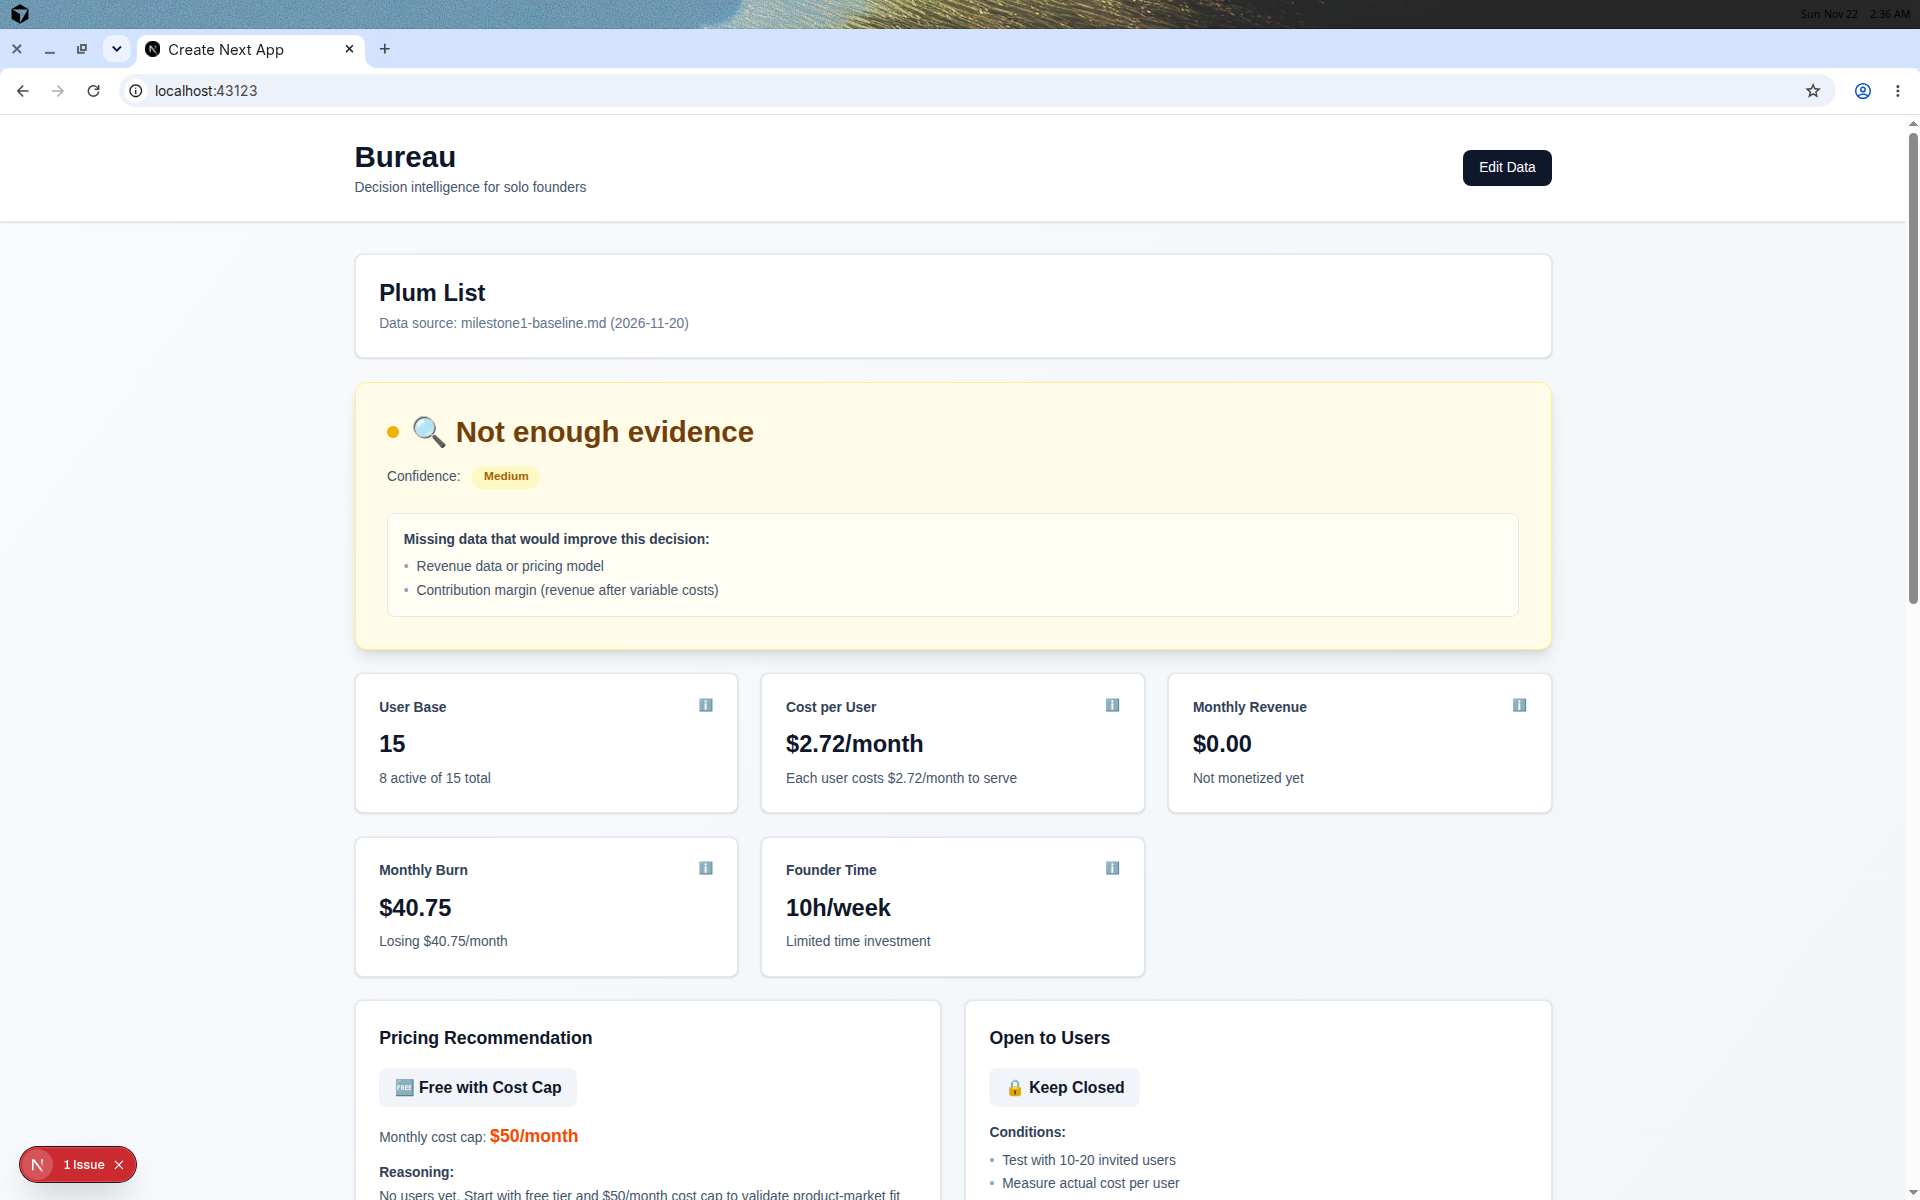
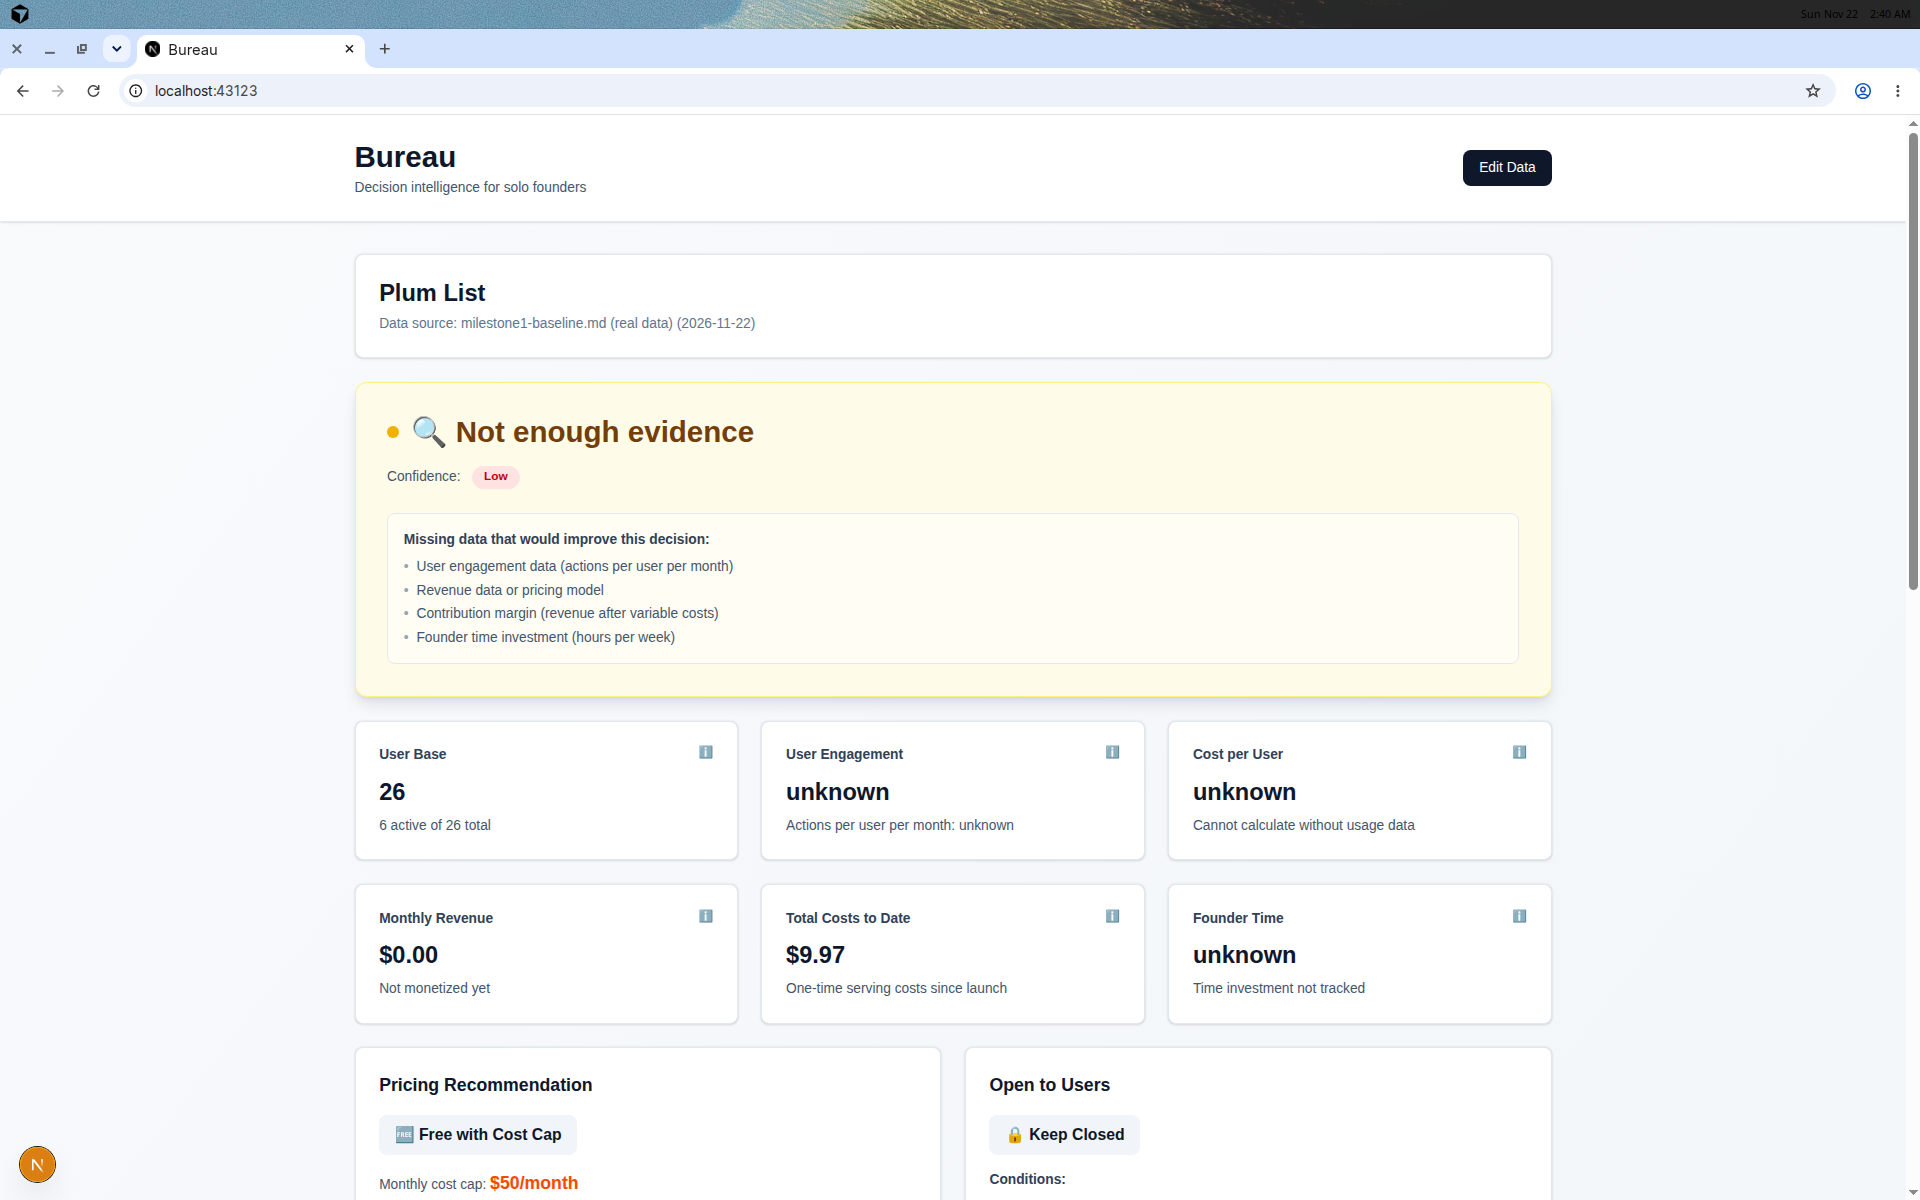
Fix Plum List baseline with real data from milestone1-baseline.md
- 26 auth users (all anonymous), 6 with saves
- 633 total saves, 613 on founder's account
- Est. serving cost ~$10 total since mid-Oct ($8.72 Nov Places + $1.25 Gemini)
- Revenue $0
- Founder time UNKNOWN (marked as unknown, not guessed)
- Distinguish founder vs non-founder metrics
- Mark unknowns as 'unknown' in UI and add to missing data
- Update key facts to show Total Costs to Date with calculation
- Set page title to 'Bureau'
- Add test asserting exact baseline values
- Update screenshots with real data
- All tests pass (37/37)

diff --git a/lib/engine.ts b/lib/engine.ts
@@ -140,19 +140,23 @@ function identifyMissingData(inputs: BusinessInputs): string[] {
   }
   
   if (inputs.userMetrics.actionsPerUserPerMonth === 0) {
-    missing.push('User engagement data (actions per user)');
+    missing.push('User engagement data (actions per user per month)');
   }
   
-  if (!inputs.userMetrics.returnRate && !inputs.userMetrics.churnRate) {
-    missing.push('User retention metrics (return rate or churn rate)');
+  if (!inputs.userMetrics.returnRate && inputs.userMetrics.returnRate !== 0) {
+    missing.push('User retention data (return rate)');
   }
   
   if (inputs.revenue.monthlyRevenue === 0 && !inputs.revenue.revenuePerUser) {
     missing.push('Revenue data or pricing model');
   }
   
-  if (!inputs.revenue.contributionMargin) {
+  if (!inputs.revenue.contributionMargin && inputs.revenue.contributionMargin !== 0) {
     missing.push('Contribution margin (revenue after variable costs)');
+  }
+  
+  if (!inputs.founderTime.hoursPerWeek || inputs.founderTime.hoursPerWeek === 0) {
+    missing.push('Founder time investment (hours per week)');
   }
   
   return missing;
@@ -177,12 +181,24 @@ function extractKeyFacts(
     inputs: ['userMetrics.totalUsers', 'userMetrics.activeUsers'],
   });
   
+  // Actions per user
+  if (inputs.userMetrics.actionsPerUserPerMonth === 0) {
+    facts.push({
+      label: 'User Engagement',
+      value: 'unknown',
+      interpretation: 'Actions per user per month: unknown',
+      inputs: ['userMetrics.actionsPerUserPerMonth'],
+    });
+  }
+  
   // Cost per user
   facts.push({
     label: 'Cost per User',
-    value: `$${breakEven.costPerUser.toFixed(2)}/month`,
+    value: breakEven.costPerUser === 0 
+      ? 'unknown' 
+      : `$${breakEven.costPerUser.toFixed(2)}/month`,
     interpretation: breakEven.costPerUser === 0
-      ? 'No variable costs calculated'
+      ? 'Cannot calculate without usage data'
       : `Each user costs $${breakEven.costPerUser.toFixed(2)}/month to serve`,
     calculation: breakEven.calculation,
     inputs: ['agentTasks', 'servingCosts', 'userMetrics'],
@@ -203,22 +219,34 @@ function extractKeyFacts(
     inputs: ['revenue.monthlyRevenue', 'userMetrics.totalUsers'],
   });
   
-  // Burn rate
-  facts.push({
-    label: 'Monthly Burn',
-    value: `$${breakEven.monthlyBurnRate.toFixed(2)}`,
-    interpretation: breakEven.monthlyBurnRate > 0
-      ? `Losing $${breakEven.monthlyBurnRate.toFixed(2)}/month`
-      : `Profitable by $${Math.abs(breakEven.monthlyBurnRate).toFixed(2)}/month`,
-    calculation: `Revenue ($${monthlyRevenue.toFixed(2)}) - Costs ($${(monthlyRevenue - breakEven.monthlyBurnRate).toFixed(2)})`,
-    inputs: ['revenue', 'agentTasks', 'servingCosts'],
-  });
+  // Total costs to date (sum of all one-time costs)
+  const oneTimeCosts = inputs.agentTasks
+    .filter(task => task.frequency === 'one_time')
+    .reduce((sum, task) => sum + task.costUSD, 0);
+  
+  if (oneTimeCosts > 0 || breakEven.monthlyBurnRate !== 0) {
+    facts.push({
+      label: 'Total Costs to Date',
+      value: `$${oneTimeCosts.toFixed(2)}`,
+      interpretation: oneTimeCosts === 0
+        ? 'No costs recorded'
+        : `One-time serving costs since launch`,
+      calculation: inputs.agentTasks
+        .filter(task => task.frequency === 'one_time')
+        .map(task => `${task.name}: $${task.costUSD}`)
+        .join('\n'),
+      inputs: ['agentTasks'],
+    });
+  }
   
   // Founder time
+  const founderTimeUnknown = !inputs.founderTime.hoursPerWeek || inputs.founderTime.hoursPerWeek === 0;
   facts.push({
     label: 'Founder Time',
-    value: `${inputs.founderTime.hoursPerWeek}h/week`,
-    interpretation: inputs.founderTime.hoursPerWeek > 40
+    value: founderTimeUnknown ? 'unknown' : `${inputs.founderTime.hoursPerWeek}h/week`,
+    interpretation: founderTimeUnknown
+      ? 'Time investment not tracked'
+      : inputs.founderTime.hoursPerWeek > 40
       ? 'More than full-time commitment'
       : inputs.founderTime.hoursPerWeek > 20
       ? 'Significant part-time commitment'

diff --git a/lib/engine.test.ts b/lib/engine.test.ts
@@ -9,13 +9,40 @@ import { businessArchetypes, plumListBaseline } from './seed-data';
 
 describe('Bureau Decision Engine', () => {
   describe('Plum List Baseline', () => {
+    it('should match exact baseline values from milestone1-baseline.md', () => {
+      const inputs = plumListBaseline.inputs;
+      
+      // Exact numbers from milestone1-baseline.md
+      expect(inputs.userMetrics.totalUsers).toBe(26); // All anonymous auth users
+      expect(inputs.userMetrics.activeUsers).toBe(6); // Users with saves
+      expect(inputs.userMetrics.actionsPerUserPerMonth).toBe(0); // UNKNOWN
+      expect(inputs.userMetrics.returnRate).toBe(0); // 0 confirmed returns
+      expect(inputs.revenue.monthlyRevenue).toBe(0); // Not monetized
+      expect(inputs.founderTime.hoursPerWeek).toBe(0); // UNKNOWN
+      
+      // Costs: ~$10 total since mid-Oct ($8.72 Nov Places + ~$1.25 Gemini)
+      const totalCost = inputs.agentTasks.reduce((sum, task) => sum + task.costUSD, 0);
+      expect(totalCost).toBeCloseTo(9.97, 2); // $8.72 + $1.25
+      
+      // Data source
+      expect(inputs.dataSource).toContain('milestone1-baseline.md');
+    });
+
     it('should produce "not_enough_evidence" verdict for Plum List', () => {
       const decision = evaluateBusiness(plumListBaseline.inputs);
       
       expect(decision.verdict).toBe('not_enough_evidence');
-      expect(decision.confidence).toBe('medium');
+      expect(decision.confidence).toBe('low');
       expect(decision.missingData).toBeDefined();
       expect(decision.missingData?.length).toBeGreaterThan(0);
+    });
+
+    it('should list all missing data for Plum List', () => {
+      const decision = evaluateBusiness(plumListBaseline.inputs);
+      
+      expect(decision.missingData).toContain('User engagement data (actions per user per month)');
+      expect(decision.missingData).toContain('Contribution margin (revenue after variable costs)');
+      expect(decision.missingData).toContain('Founder time investment (hours per week)');
     });
 
     it('should recommend free tier with cost cap for Plum List', () => {
@@ -37,8 +64,10 @@ describe('Bureau Decision Engine', () => {
     it('should calculate cost per user for Plum List', () => {
       const decision = evaluateBusiness(plumListBaseline.inputs);
       
-      expect(decision.breakEvenMetrics.costPerUser).toBeGreaterThan(0);
+      // Cost per user is 0 because all costs are one-time, not recurring
+      expect(decision.breakEvenMetrics.costPerUser).toBe(0);
       expect(decision.breakEvenMetrics.costPerTask).toBeDefined();
+      expect(Object.keys(decision.breakEvenMetrics.costPerTask).length).toBeGreaterThan(0);
     });
 
     it('should include agent action briefs for Plum List', () => {
@@ -150,7 +179,7 @@ describe('Bureau Decision Engine', () => {
       const userFact = decision.keyFacts.find(f => f.label === 'User Base');
       
       expect(userFact).toBeDefined();
-      expect(userFact?.value).toBe(15);
+      expect(userFact?.value).toBe(26); // Real baseline: 26 auth users
     });
 
     it('should include cost per user fact', () => {

diff --git a/lib/seed-data.ts b/lib/seed-data.ts
@@ -8,58 +8,48 @@ import { BusinessArchetype } from './types';
 /**
  * Plum List - Real baseline from founder's data
  * AI-powered consumer app for curated recommendations
+ * Data from milestone1-baseline.md (actual numbers, Nov 2026)
  */
 export const plumListBaseline: BusinessArchetype = {
   name: 'Plum List',
-  description: 'AI-powered curated recommendation app (real baseline data)',
+  description: 'AI-powered curated recommendation app (real baseline data from milestone1-baseline.md)',
   inputs: {
     businessName: 'Plum List',
     agentTasks: [
       {
-        name: 'Content Curation',
-        costUSD: 0.15,
-        timeMinutes: 2,
-        frequency: 'per_action',
-        description: 'AI curates personalized recommendations per user query',
+        name: 'Places API (Nov)',
+        costUSD: 8.72,
+        timeMinutes: 0,
+        frequency: 'one_time',
+        description: 'Google Places API costs for November (estimate, not invoice)',
       },
       {
-        name: 'User Onboarding',
-        costUSD: 0.05,
-        timeMinutes: 1,
-        frequency: 'per_user',
-        description: 'AI-powered onboarding conversation',
-      },
-      {
-        name: 'Weekly Content Updates',
-        costUSD: 2.50,
-        timeMinutes: 30,
-        frequency: 'weekly',
-        description: 'AI refreshes trending recommendations',
+        name: 'Gemini API (since mid-Oct)',
+        costUSD: 1.25,
+        timeMinutes: 0,
+        frequency: 'one_time',
+        description: 'Gemini API costs since mid-October (estimate, not invoice)',
       },
     ],
-    servingCosts: [
-      {
-        name: 'API Requests',
-        costPerAction: 0.02,
-        actionsPerUser: 10,
-        description: 'Third-party API costs per user query',
-      },
-    ],
+    servingCosts: [],
     userMetrics: {
-      totalUsers: 15,
-      activeUsers: 8,
-      actionsPerUserPerMonth: 12,
-      returnRate: 0.4,
+      totalUsers: 26, // All anonymous auth users
+      activeUsers: 6, // Users with saves (excluding founder)
+      actionsPerUserPerMonth: 0, // UNKNOWN - cannot calculate without time window
+      returnRate: 0, // 0 confirmed later-day returns to saved places
+      churnRate: undefined,
     },
     revenue: {
       monthlyRevenue: 0,
       revenuePerUser: 0,
+      contributionMargin: undefined,
     },
     founderTime: {
-      hoursPerWeek: 10,
+      hoursPerWeek: 0, // UNKNOWN
+      valuePerHour: undefined,
     },
-    dataSource: 'milestone1-baseline.md',
-    dataDate: '2026-11-20',
+    dataSource: 'milestone1-baseline.md (real data)',
+    dataDate: '2026-11-22',
   },
   expectedVerdict: 'not_enough_evidence',
 };

diff --git a/app/layout.tsx b/app/layout.tsx
@@ -13,8 +13,8 @@ const geistMono = Geist_Mono({
 });
 
 export const metadata: Metadata = {
-  title: "Create Next App",
-  description: "Generated by create next app",
+  title: "Bureau",
+  description: "Decision intelligence for solo founders running AI agent businesses",
 };
 
 export default function RootLayout({ children }: LayoutProps<"/">) {
